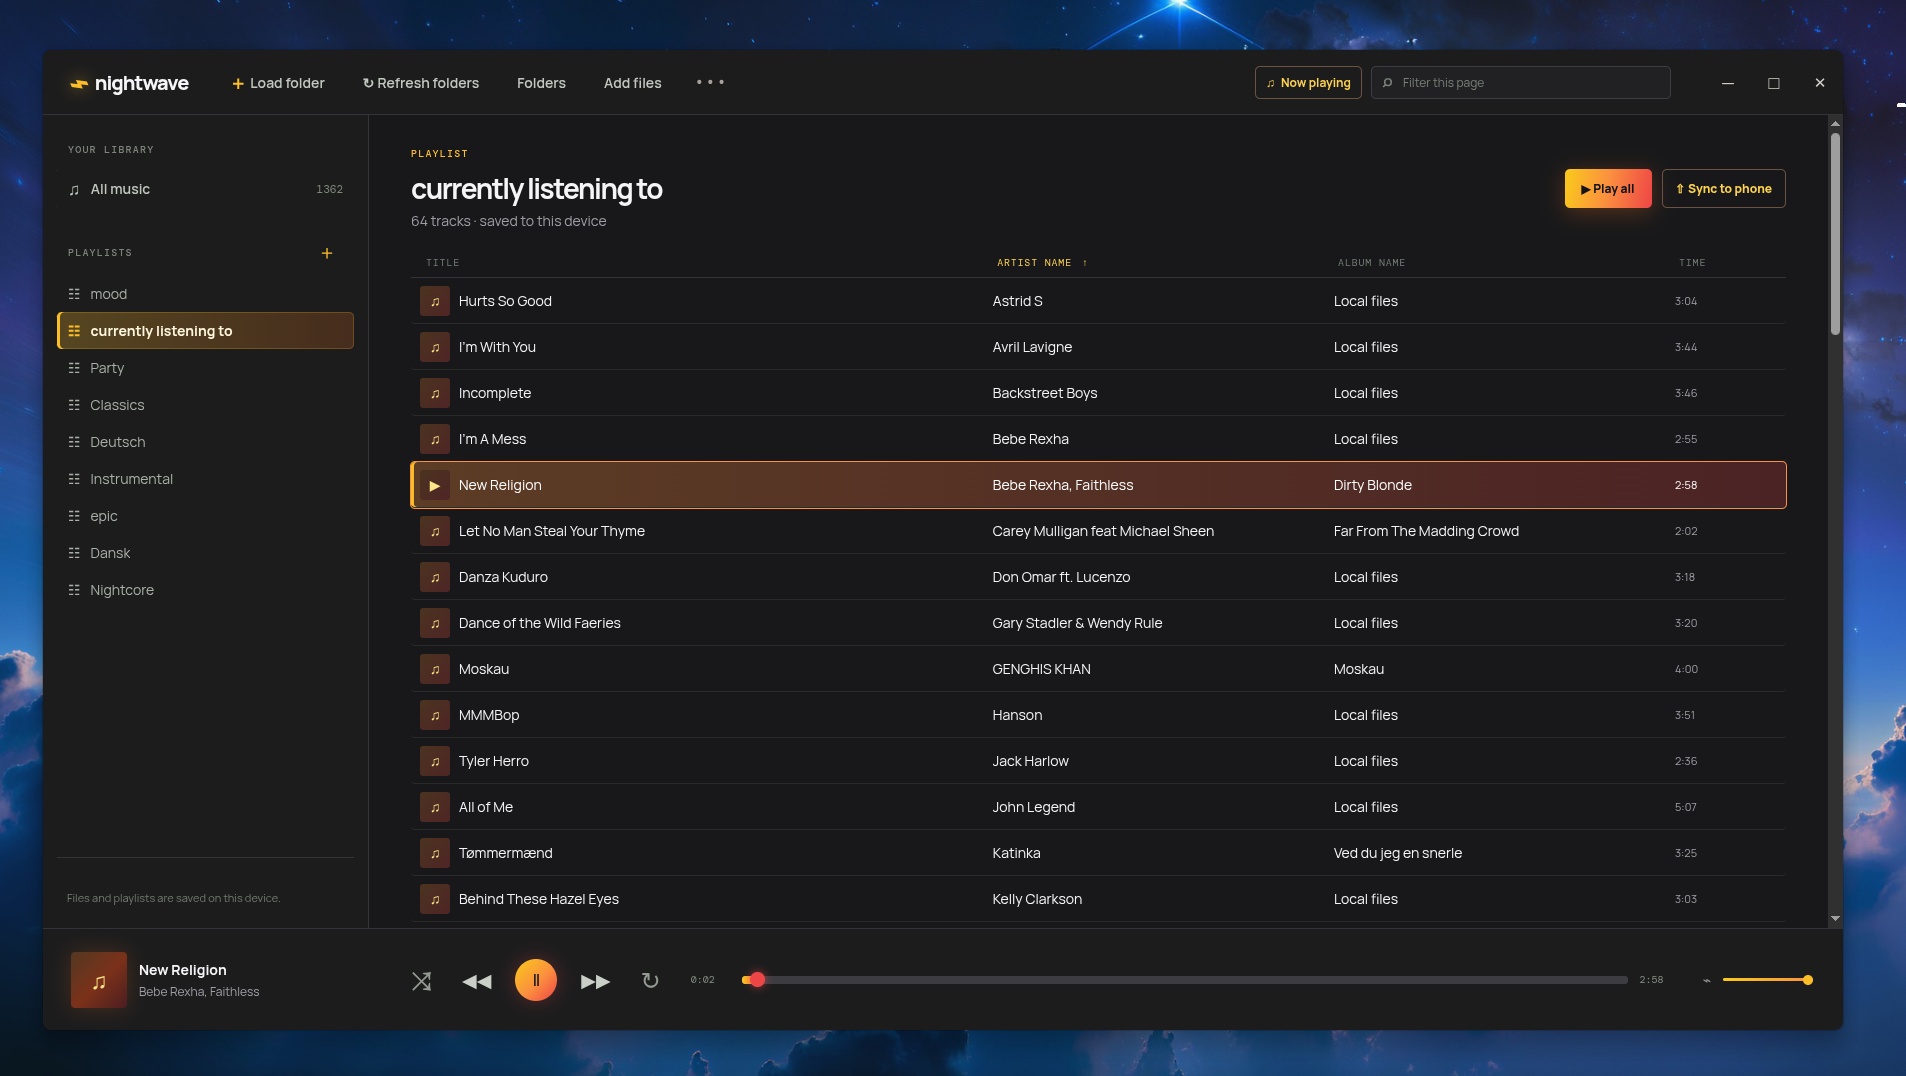
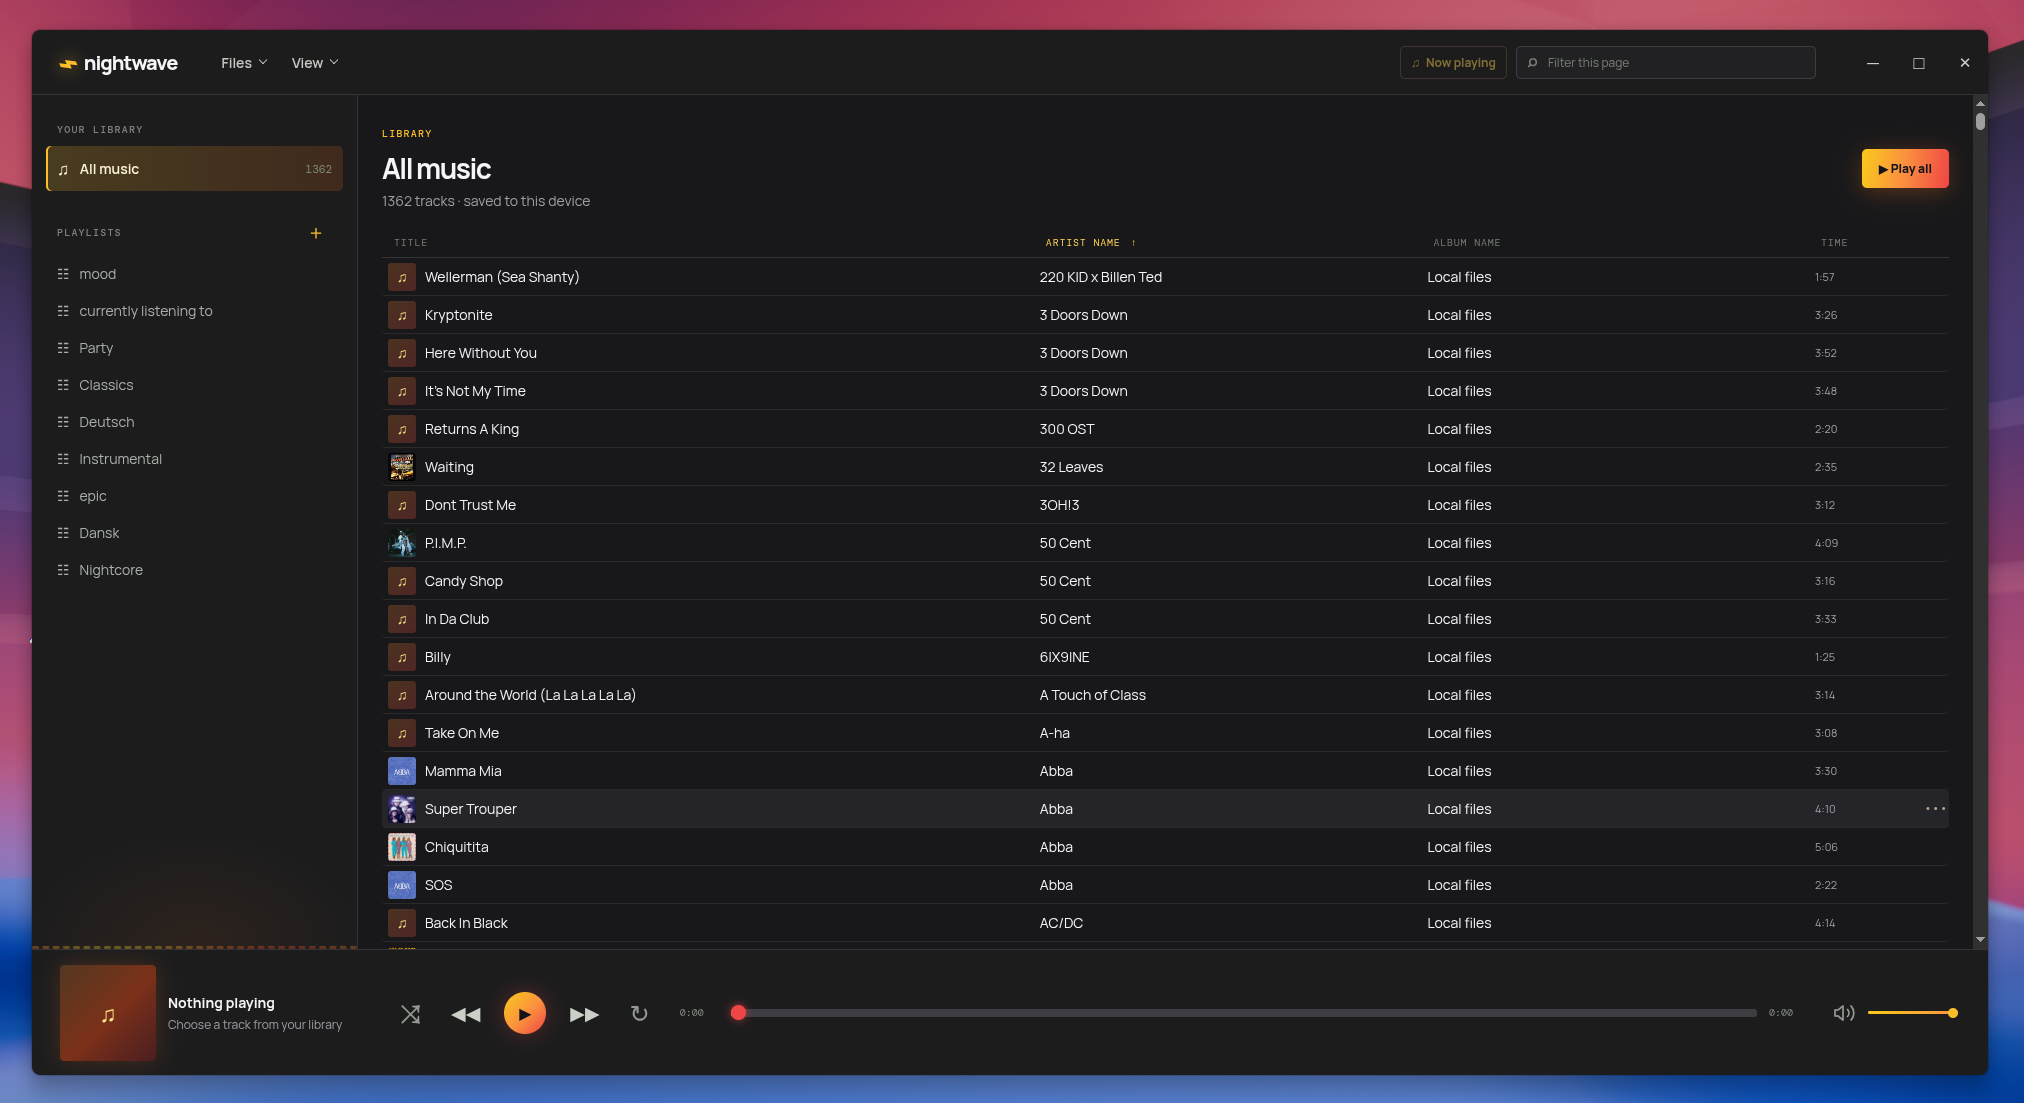
Release v1.0.7 with updated screenshot

diff --git a/README.md b/README.md
@@ -2,7 +2,7 @@
 
 Nightwave is a local desktop music player built with Electron. It lets you load a music folder, organize songs into playlists, and play your collection without uploading your library to a streaming service.
 
-![Nightwave showing a playlist, active playback controls, and phone sync progress](https://raw.githubusercontent.com/tefaz/Nightwave-music-player/362bf66fb2095032b4b50353febcbc37350786f1/Nightwave.png)
+![Nightwave showing the music library, playlists, Files and View menus, and playback controls](Nightwave.png)
 
 ## Features
 
@@ -18,6 +18,7 @@ Nightwave is a local desktop music player built with Electron. It lets you load 
 - Show a song in the system file manager
 - Shuffle, repeat, seek, and control volume
 - View a live sunset-colored audio spectrum in the sidebar
+- Switch the main panels to Space tunnel, Aurora, or Kaleidoscope visualizers while keeping playback controls visible
 - Sync a playlist to an MTP-connected phone on Linux with GIO or KDE KIO
 - Store library and playlist data locally on the device
 
